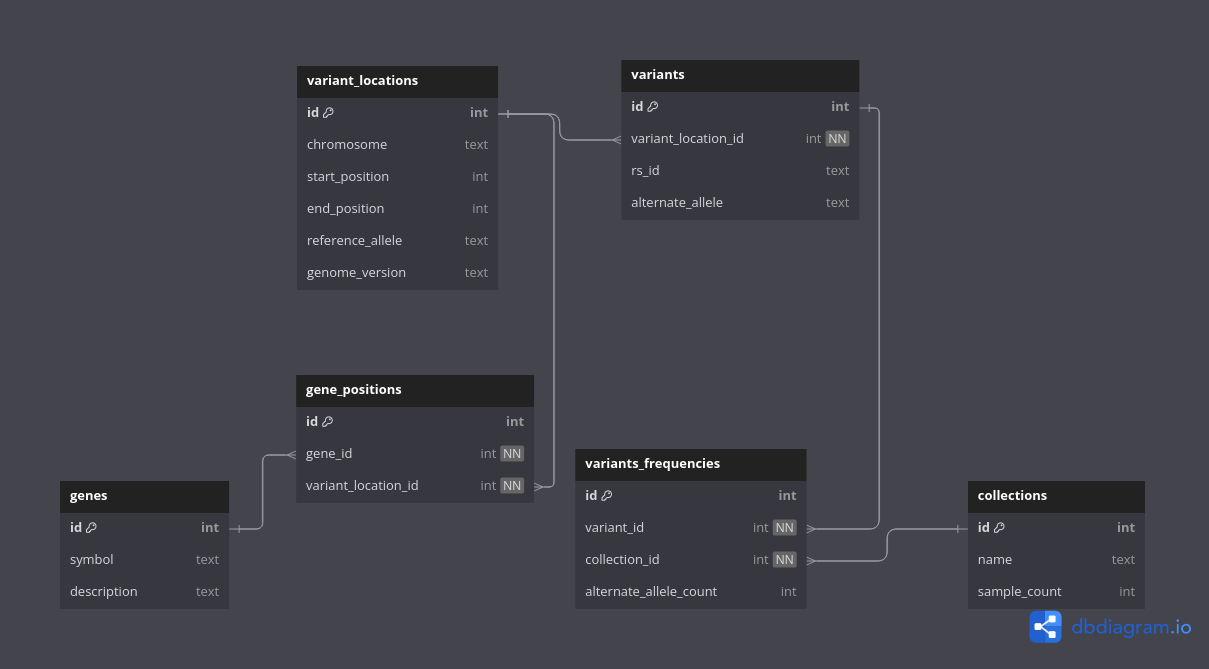
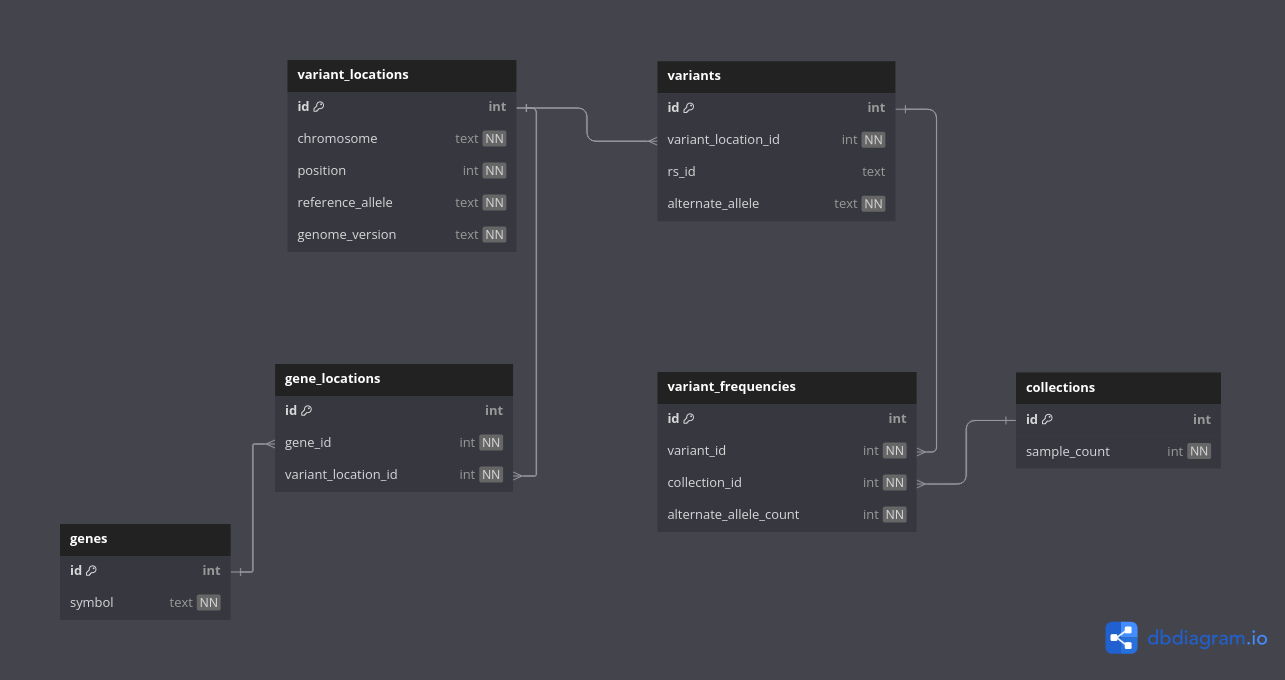
Update database documentation and schema (Minor fixes)

diff --git a/docs/database_documentation.md b/docs/database_documentation.md
@@ -23,8 +23,7 @@ Stores the genomic coordinates where variants occur.
 |--------|------|-------------|
 | id | integer | Primary key |
 | chromosome | text | Chromosome identifier (e.g., "chr1") |
-| start_position | integer | Start coordinate of the variant |
-| end_position | integer | End coordinate of the variant |
+| position | integer | Coordinate of the variant |
 | reference_allele | text | Reference sequence at this position |
 | genome_version | text | Reference genome build/version (e.g., "GRCh38") |
 
